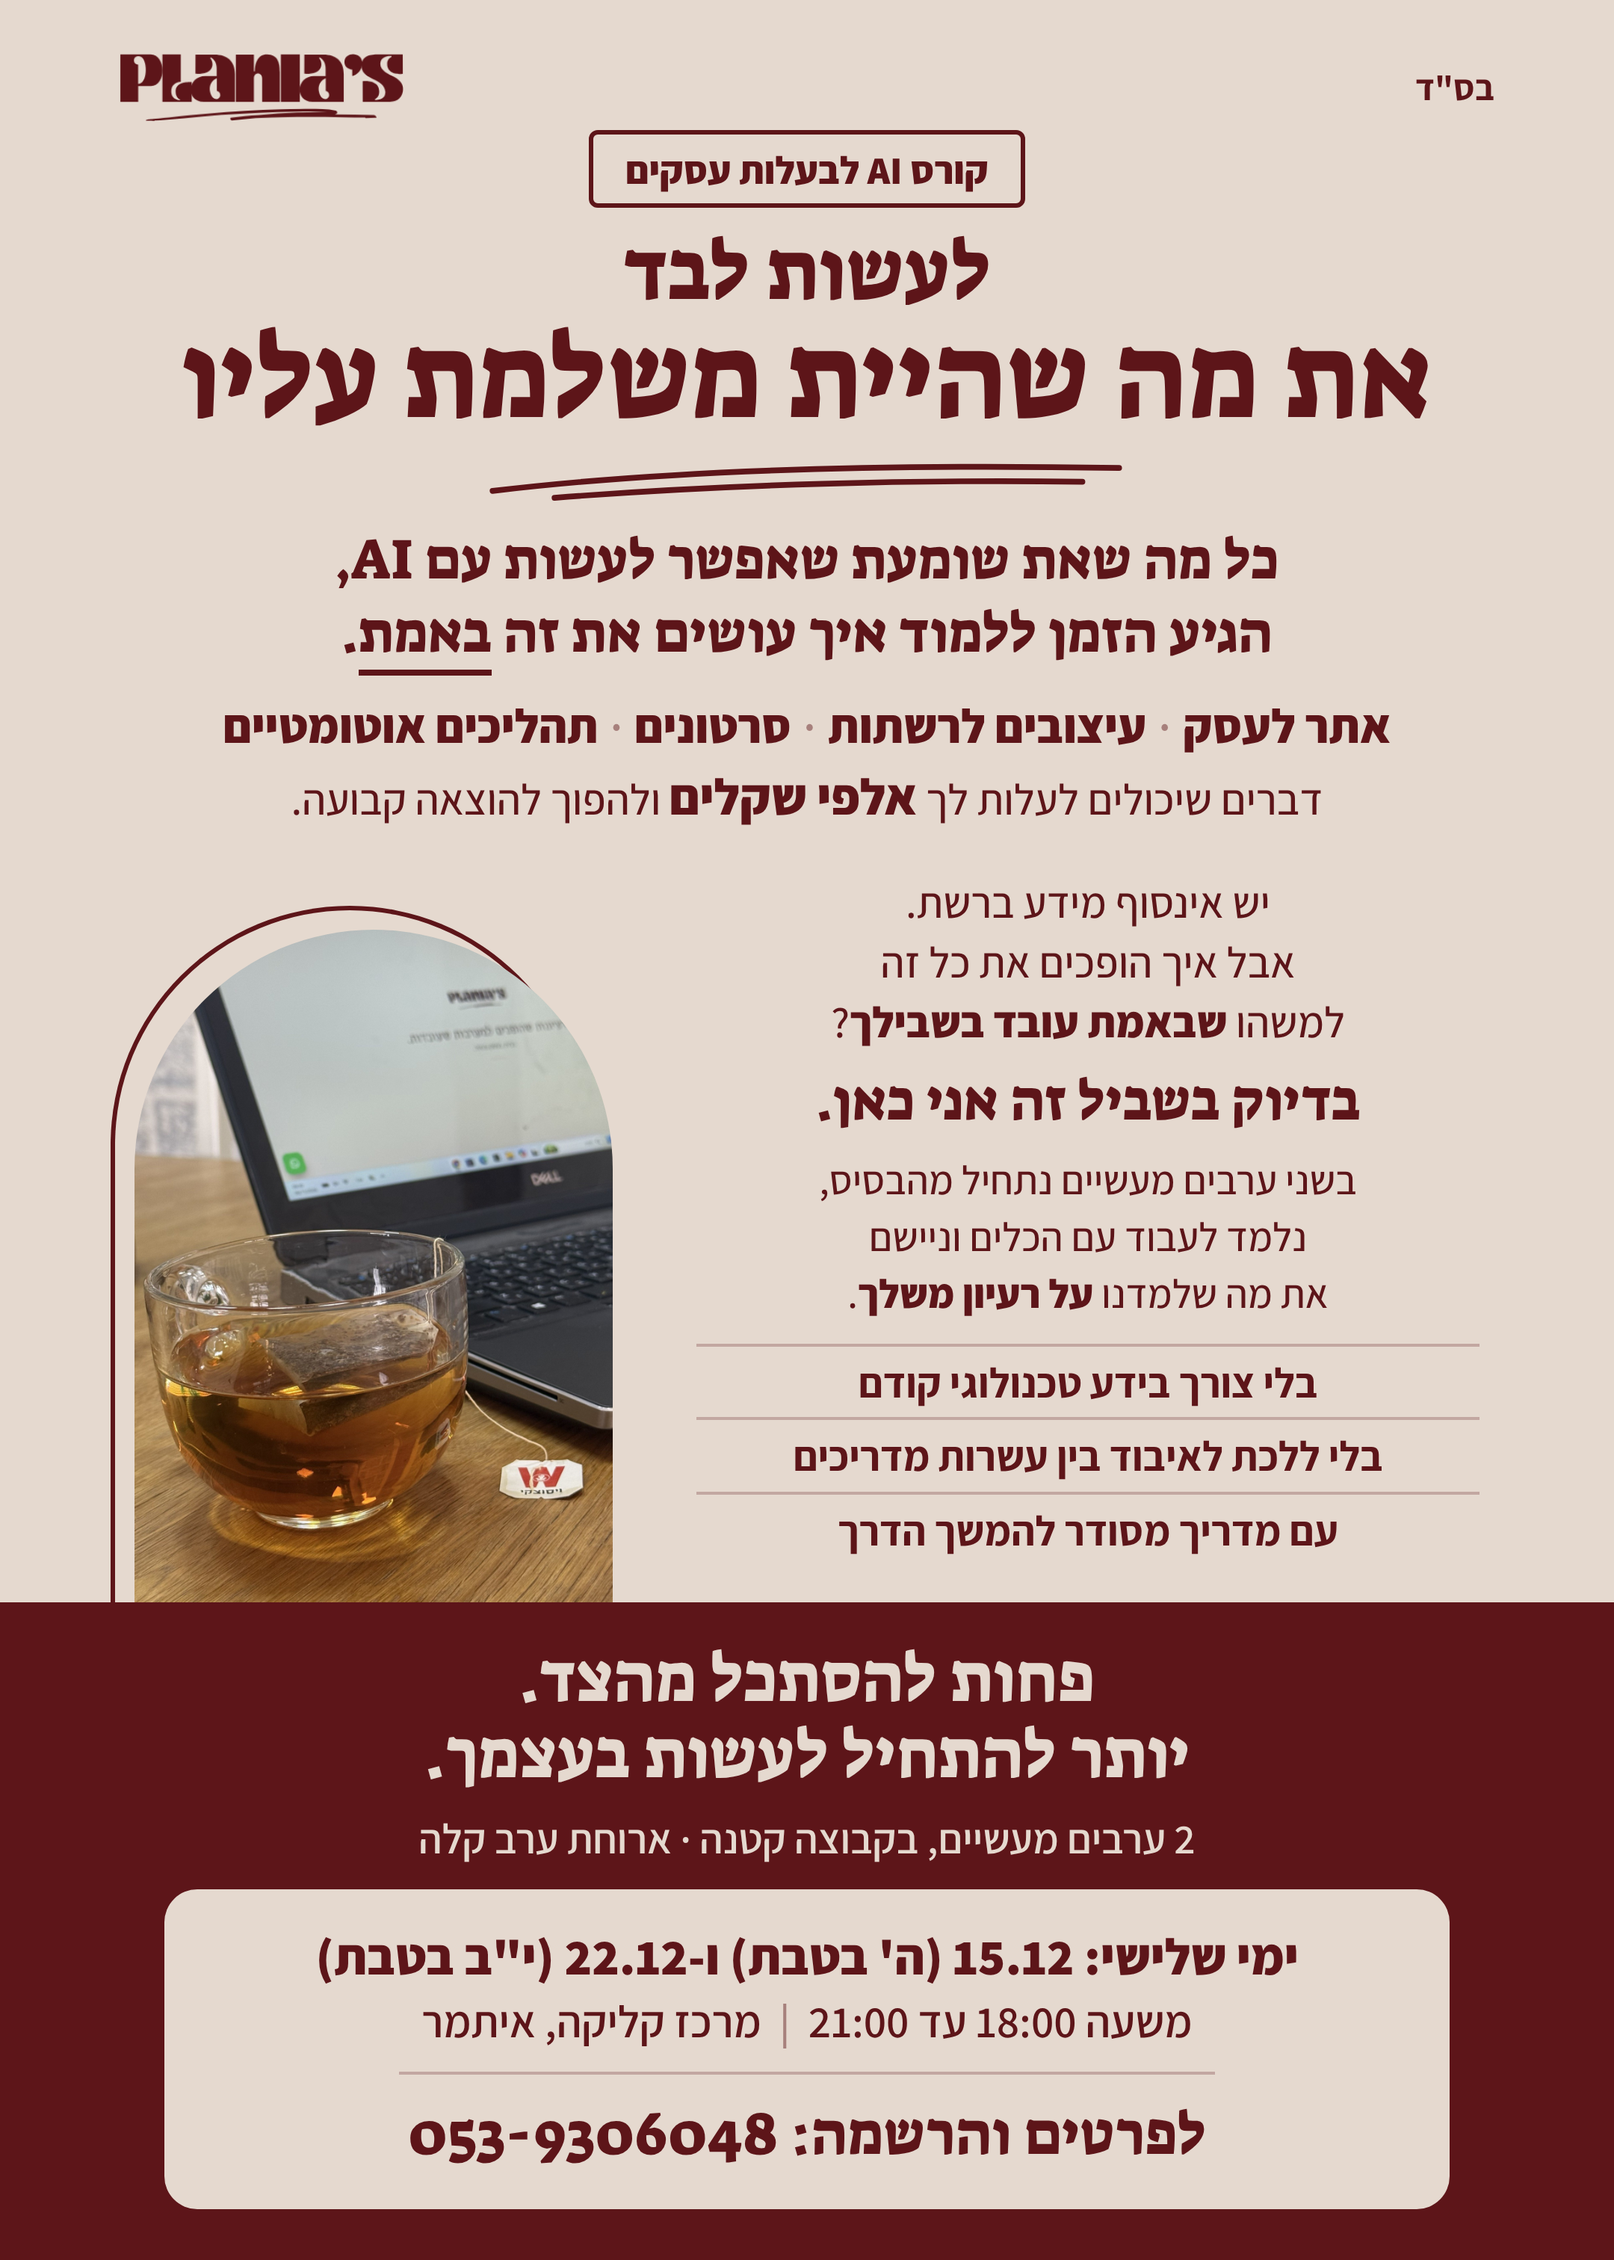
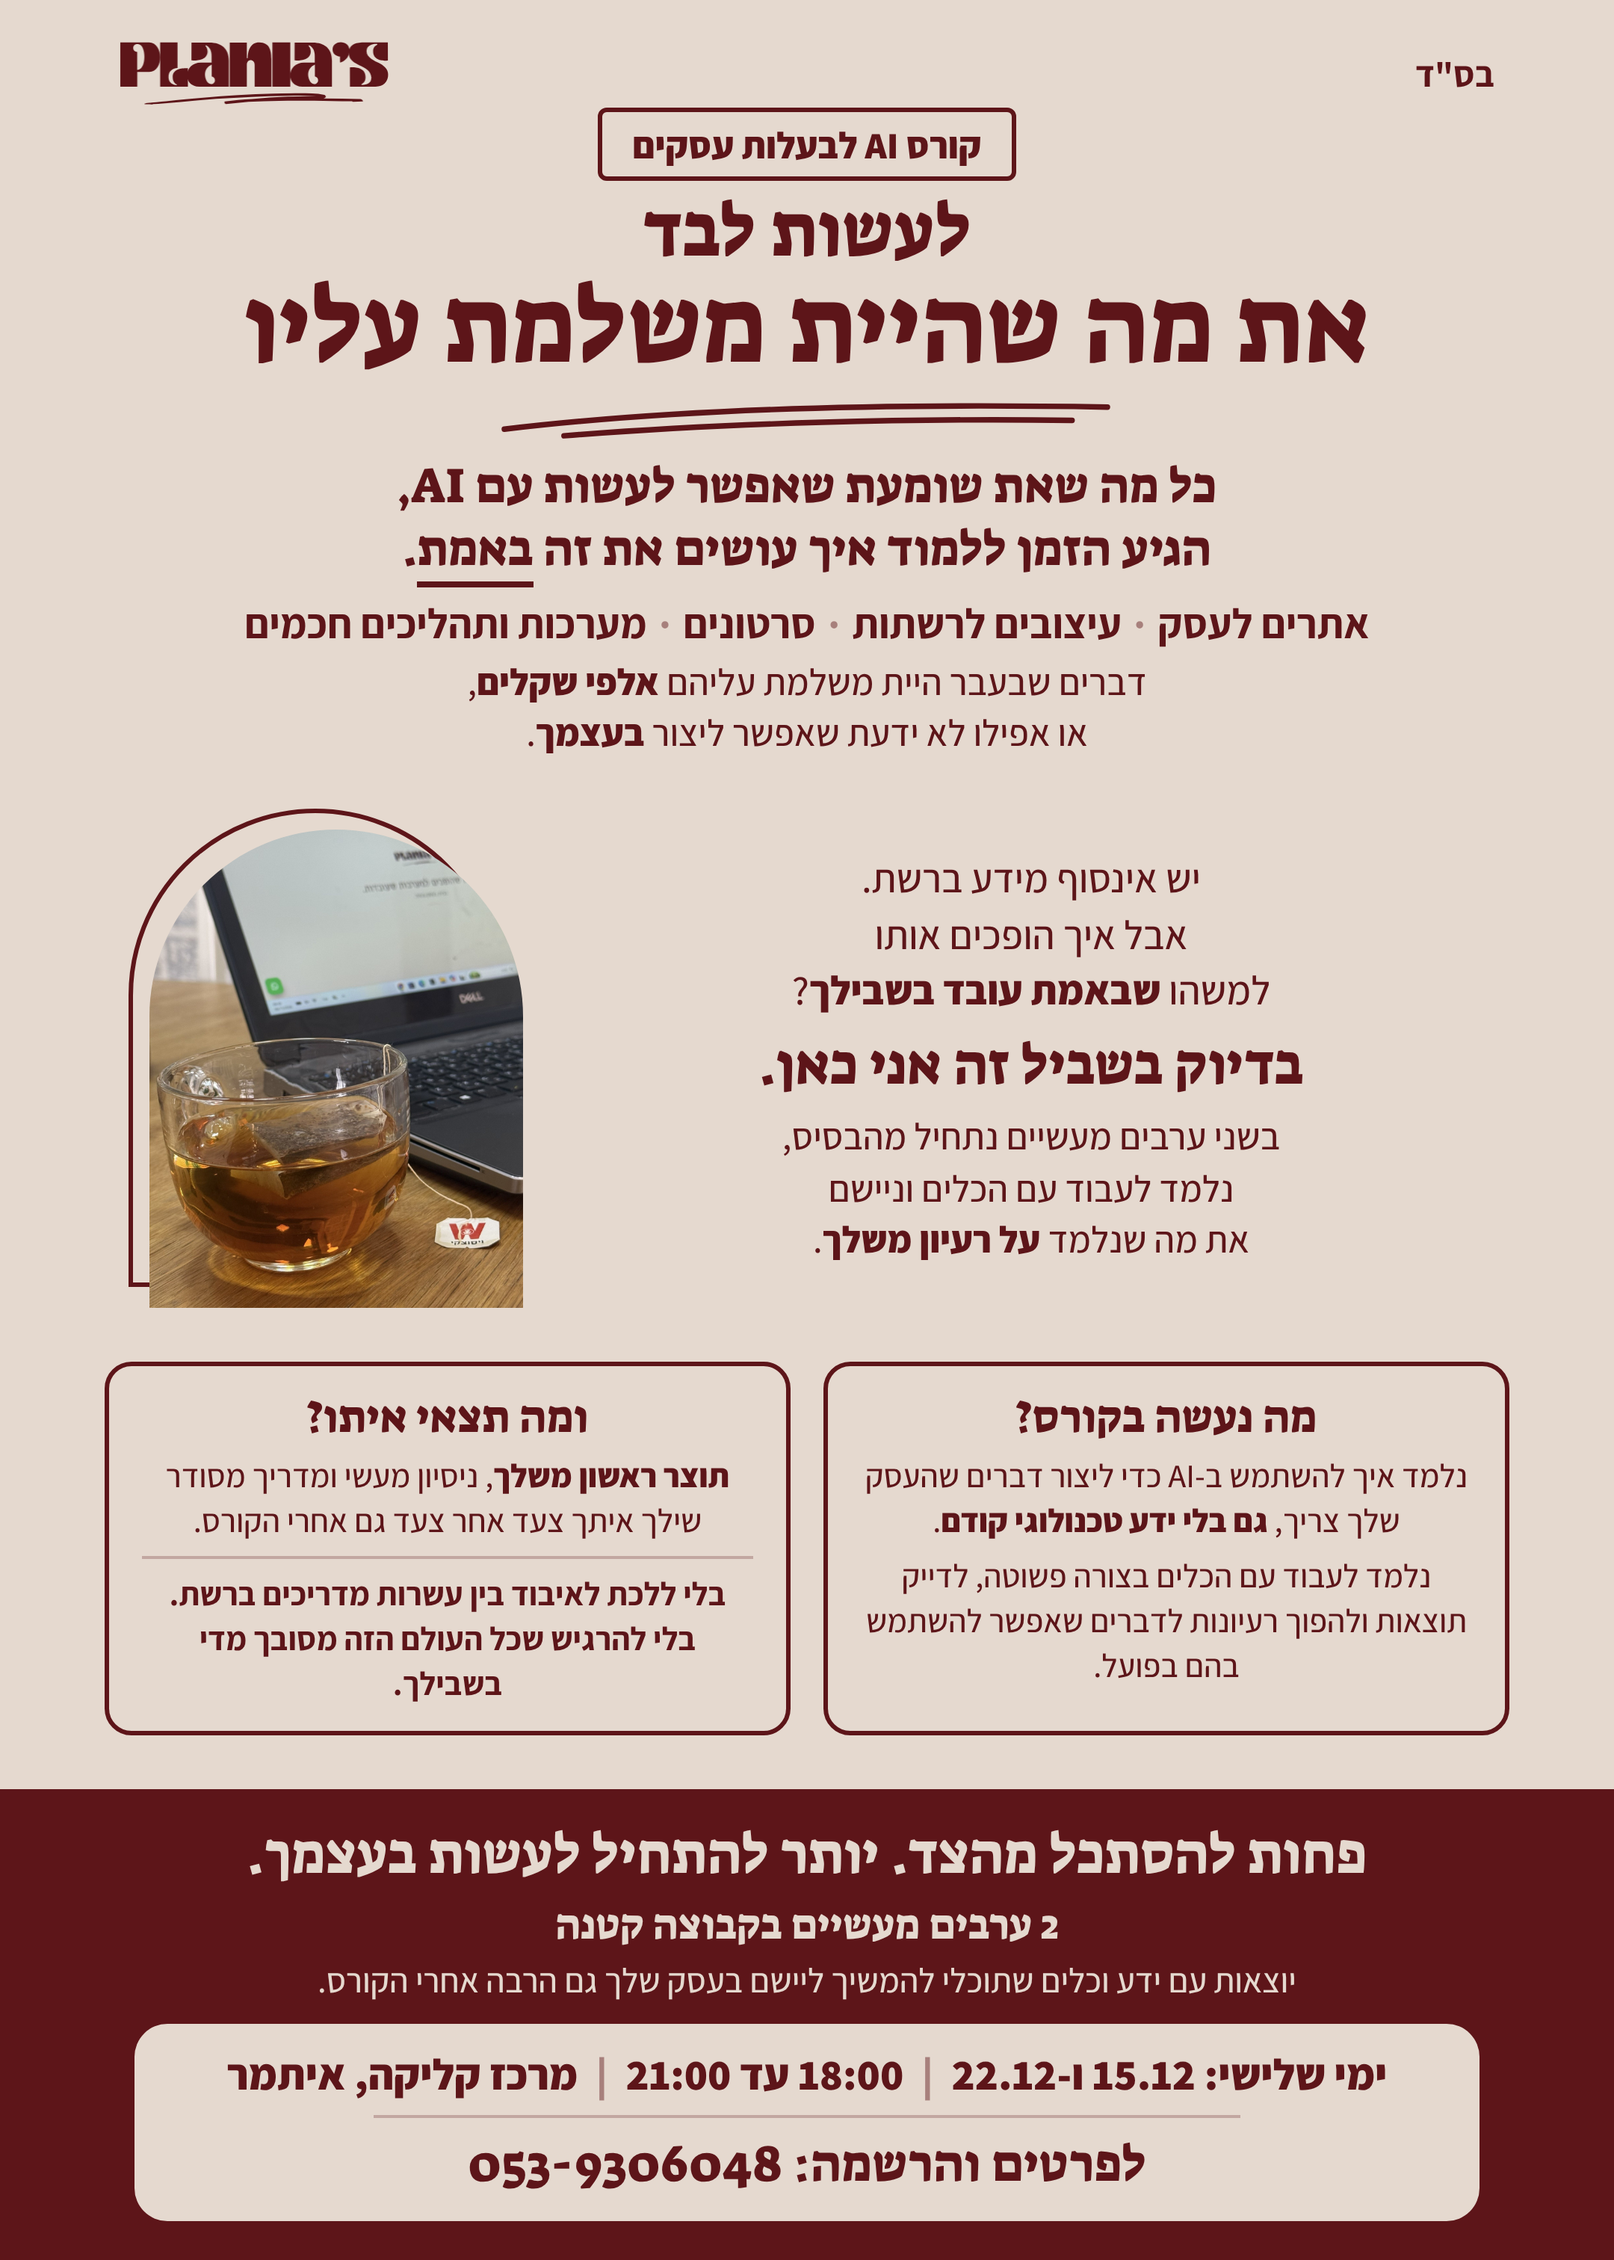
Flyer: full new copy from Hadarel, two content cards, compact details box
Claude-Session: https://claude.ai/code/session_01FAztRn3s498VxUBgDg5pS8

diff --git a/marketing/course-ad/flyer-photo.html b/marketing/course-ad/flyer-photo.html
@@ -12,40 +12,45 @@ b{font-weight:800}
 u{text-decoration:none;border-bottom:4px solid var(--wine)}
 .ltr{direction:ltr;unicode-bidi:isolate;display:inline-block}
 
-.top{text-align:center;padding:36px 60px 0}
+.top{text-align:center;padding:28px 60px 0}
 .head{display:flex;justify-content:space-between;align-items:center;padding:0 20px}
 .bsd{font-size:24px;font-weight:700}
-.logo{width:190px;display:block}
-.tag{display:inline-block;margin-top:6px;border:3px solid currentColor;padding:6px 22px;font-weight:800;font-size:26px;border-radius:6px}
-h1{font-family:'Suez One',serif;font-weight:400;font-size:80px;line-height:1.02;margin-top:14px}
-h1 .small{display:block;font-size:56px;margin-bottom:2px}
-.swoosh{display:block;width:430px;height:36px;margin:8px auto 0}
-.sub{font-family:'Suez One',serif;font-size:38px;line-height:1.3;margin-top:12px}
-.things{font-size:32px;font-weight:600;margin-top:16px}
+.logo{width:180px;display:block}
+.tag{display:inline-block;margin-top:2px;border:3px solid currentColor;padding:5px 20px;font-weight:800;font-size:25px;border-radius:6px}
+h1{font-family:'Suez One',serif;font-weight:400;font-size:72px;line-height:1.02;margin-top:8px}
+h1 .small{display:block;font-size:50px;margin-bottom:2px}
+.swoosh{display:block;width:420px;height:34px;margin:6px auto 0}
+.sub{font-family:'Suez One',serif;font-size:33px;line-height:1.28;margin-top:8px}
+.things{font-size:28px;font-weight:700;margin-top:10px}
 .dot{opacity:.45;margin:0 8px}
-.cost{font-size:29px;font-weight:500;margin-top:4px}
-.cost b{font-size:34px}
+.cost{font-size:25px;font-weight:500;line-height:1.35;margin-top:4px}
 
-.mid{flex:1;display:flex;gap:56px;padding:22px 90px 0;align-items:flex-end}
-.col{flex:1;text-align:center;align-self:center;padding-bottom:18px}
-.q{font-size:29px;font-weight:500;line-height:1.38}
-.me{font-family:'Suez One',serif;font-size:38px;margin-top:8px}
-.how{font-size:27px;font-weight:500;line-height:1.4;margin-top:10px}
-ul{list-style:none;margin-top:14px}
-li{font-size:28px;font-weight:700;line-height:1.2;padding:7px 0;border-top:2px solid var(--soft)}
-.archwrap{position:relative;width:320px;height:450px;flex:none}
-.arch-line{position:absolute;inset:-16px 16px 0 -16px;border:3px solid var(--wine);border-bottom:none;border-radius:176px 176px 0 0}
-.arch{position:absolute;inset:0;border-radius:160px 160px 0 0;background:url(tea-photo.jpg) 22% 55%/cover no-repeat}
+.mid{display:flex;gap:50px;padding:34px 100px 0;align-items:center}
+.col{flex:1;text-align:center}
+.q{font-size:27px;font-weight:500;line-height:1.38}
+.me{font-family:'Suez One',serif;font-size:38px;margin-top:6px}
+.how{font-size:25px;font-weight:500;line-height:1.38;margin-top:6px}
+.archwrap{position:relative;width:250px;height:320px;flex:none;margin-top:14px}
+.arch-line{position:absolute;inset:-14px 14px 14px -14px;border:3px solid var(--wine);border-radius:139px 139px 0 0}
+.arch{position:absolute;inset:0;border-radius:125px 125px 0 0;background:url(tea-photo.jpg) 22% 55%/cover no-repeat}
 
-.band{background:var(--wine);color:var(--cream);text-align:center;padding:26px 70px 34px}
-.band h2{font-family:'Suez One',serif;font-weight:400;font-size:46px;line-height:1.12}
-.band .meta{font-size:28px;font-weight:600;margin-top:10px}
-.box{margin:16px auto 0;background:var(--cream);color:var(--wine);border-radius:22px;padding:22px 40px 24px;max-width:860px}
-.box .when{font-size:34px;font-weight:800;line-height:1.35}
-.box .where{font-size:30px;font-weight:600;line-height:1.35}
+.cards{display:flex;gap:22px;padding:36px 70px 20px}
+.card{flex:1;border:3px solid var(--wine);border-radius:18px;padding:14px 22px 16px;text-align:center}
+.card h3{font-family:'Suez One',serif;font-weight:400;font-size:30px;margin-bottom:4px}
+.card p{font-size:22px;font-weight:500;line-height:1.38}
+.card p+p{margin-top:6px}
+.card .no{font-weight:700;margin-top:8px;padding-top:8px;border-top:2px solid var(--soft)}
+
+.band{margin-top:auto;background:var(--wine);color:var(--cream);text-align:center;padding:22px 60px 26px}
+.band h2{font-family:'Suez One',serif;font-weight:400;font-size:38px;line-height:1.15}
+.band .meta{font-family:'Suez One',serif;font-size:28px;margin-top:6px}
+.band .after{font-size:23px;font-weight:500;margin-top:4px}
+.box{margin:14px auto 0;background:var(--cream);color:var(--wine);border-radius:22px;padding:14px 36px 16px;max-width:900px}
+.box .when{font-size:29px;font-weight:800;line-height:1.35}
+.box .where{font-size:29px;font-weight:600;line-height:1.35}
 .box .sep{opacity:.45;margin:0 12px}
-.box hr{border:none;border-top:2px solid var(--soft);width:70%;margin:14px auto}
-.box .reg{font-family:'Suez One',serif;font-size:40px}
+.box hr{border:none;border-top:2px solid var(--soft);width:70%;margin:8px auto}
+.box .reg{font-family:'Suez One',serif;font-size:34px}
 </style>
 </head>
 <body>
@@ -56,30 +61,38 @@ li{font-size:28px;font-weight:700;line-height:1.2;padding:7px 0;border-top:2px s
     <h1><span class="small">לעשות לבד</span>את מה שהיית משלמת עליו</h1>
     <svg class="swoosh" viewBox="0 0 560 46"><path d="M6 34 C140 18 320 10 552 14 M60 40 C210 28 380 24 520 26" fill="none" stroke="currentColor" stroke-width="5" stroke-linecap="round"/></svg>
     <p class="sub">כל מה שאת שומעת שאפשר לעשות עם AI,<br>הגיע הזמן ללמוד איך עושים את זה <u>באמת</u>.</p>
-    <p class="things"><b>אתר לעסק</b><span class="dot">·</span><b>עיצובים לרשתות</b><span class="dot">·</span><b>סרטונים</b><span class="dot">·</span><b>תהליכים אוטומטיים</b></p>
-    <p class="cost">דברים שיכולים לעלות לך <b>אלפי שקלים</b> ולהפוך להוצאה קבועה.</p>
+    <p class="things">אתרים לעסק<span class="dot">·</span>עיצובים לרשתות<span class="dot">·</span>סרטונים<span class="dot">·</span>מערכות ותהליכים חכמים</p>
+    <p class="cost">דברים שבעבר היית משלמת עליהם <b>אלפי שקלים</b>,<br>או אפילו לא ידעת שאפשר ליצור <b>בעצמך</b>.</p>
   </div>
 
   <div class="mid">
     <div class="col">
-      <p class="q">יש אינסוף מידע ברשת.<br>אבל איך הופכים את כל זה<br>למשהו <b>שבאמת עובד בשבילך</b>?</p>
+      <p class="q">יש אינסוף מידע ברשת.<br>אבל איך הופכים אותו<br>למשהו <b>שבאמת עובד בשבילך</b>?</p>
       <p class="me">בדיוק בשביל זה אני כאן.</p>
-      <p class="how">בשני ערבים מעשיים נתחיל מהבסיס,<br>נלמד לעבוד עם הכלים וניישם<br>את מה שלמדנו <b>על רעיון משלך</b>.</p>
-      <ul>
-        <li>בלי צורך בידע טכנולוגי קודם</li>
-        <li>בלי ללכת לאיבוד בין עשרות מדריכים</li>
-        <li>עם מדריך מסודר להמשך הדרך</li>
-      </ul>
+      <p class="how">בשני ערבים מעשיים נתחיל מהבסיס,<br>נלמד לעבוד עם הכלים וניישם<br>את מה שנלמד <b>על רעיון משלך</b>.</p>
     </div>
     <div class="archwrap"><div class="arch-line"></div><div class="arch" role="img" aria-label="כוס תה ליד מחשב נייד עם האתר של פלאניה"></div></div>
   </div>
 
+  <div class="cards">
+    <div class="card">
+      <h3>מה נעשה בקורס?</h3>
+      <p>נלמד איך להשתמש ב-AI כדי ליצור דברים שהעסק שלך צריך, <b>גם בלי ידע טכנולוגי קודם</b>.</p>
+      <p>נלמד לעבוד עם הכלים בצורה פשוטה, לדייק תוצאות ולהפוך רעיונות לדברים שאפשר להשתמש בהם בפועל.</p>
+    </div>
+    <div class="card">
+      <h3>ומה תצאי איתו?</h3>
+      <p><b>תוצר ראשון משלך</b>, ניסיון מעשי ומדריך מסודר שילך איתך צעד אחר צעד גם אחרי הקורס.</p>
+      <p class="no">בלי ללכת לאיבוד בין עשרות מדריכים ברשת.<br>בלי להרגיש שכל העולם הזה מסובך מדי בשבילך.</p>
+    </div>
+  </div>
+
   <div class="band">
-    <h2>פחות להסתכל מהצד.<br>יותר להתחיל לעשות בעצמך.</h2>
-    <p class="meta">2 ערבים מעשיים, בקבוצה קטנה · ארוחת ערב קלה</p>
+    <h2>פחות להסתכל מהצד. יותר להתחיל לעשות בעצמך.</h2>
+    <p class="meta">2 ערבים מעשיים בקבוצה קטנה</p>
+    <p class="after">יוצאות עם ידע וכלים שתוכלי להמשיך ליישם בעסק שלך גם הרבה אחרי הקורס.</p>
     <div class="box">
-      <div class="when">ימי שלישי: 15.12 (ה' בטבת) ו-22.12 (י"ב בטבת)</div>
-      <div class="where">משעה 18:00 עד 21:00<span class="sep">|</span>מרכז קליקה, איתמר</div>
+      <div class="when">ימי שלישי: 15.12 ו-22.12<span class="sep">|</span>18:00 עד 21:00<span class="sep">|</span>מרכז קליקה, איתמר</div>
       <hr>
       <div class="reg">לפרטים והרשמה: <span class="ltr">053-9306048</span></div>
     </div>
